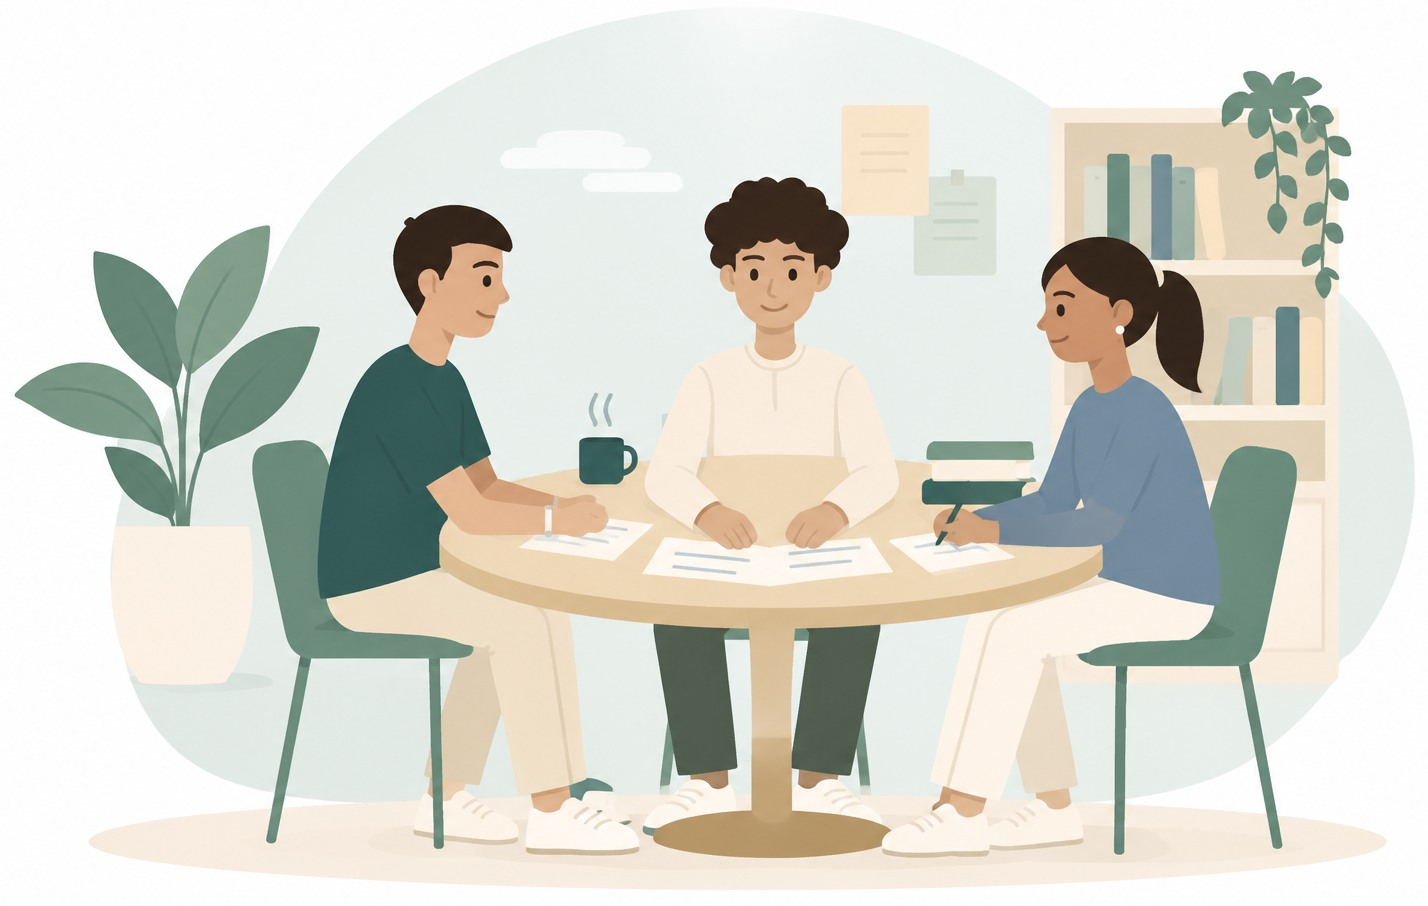
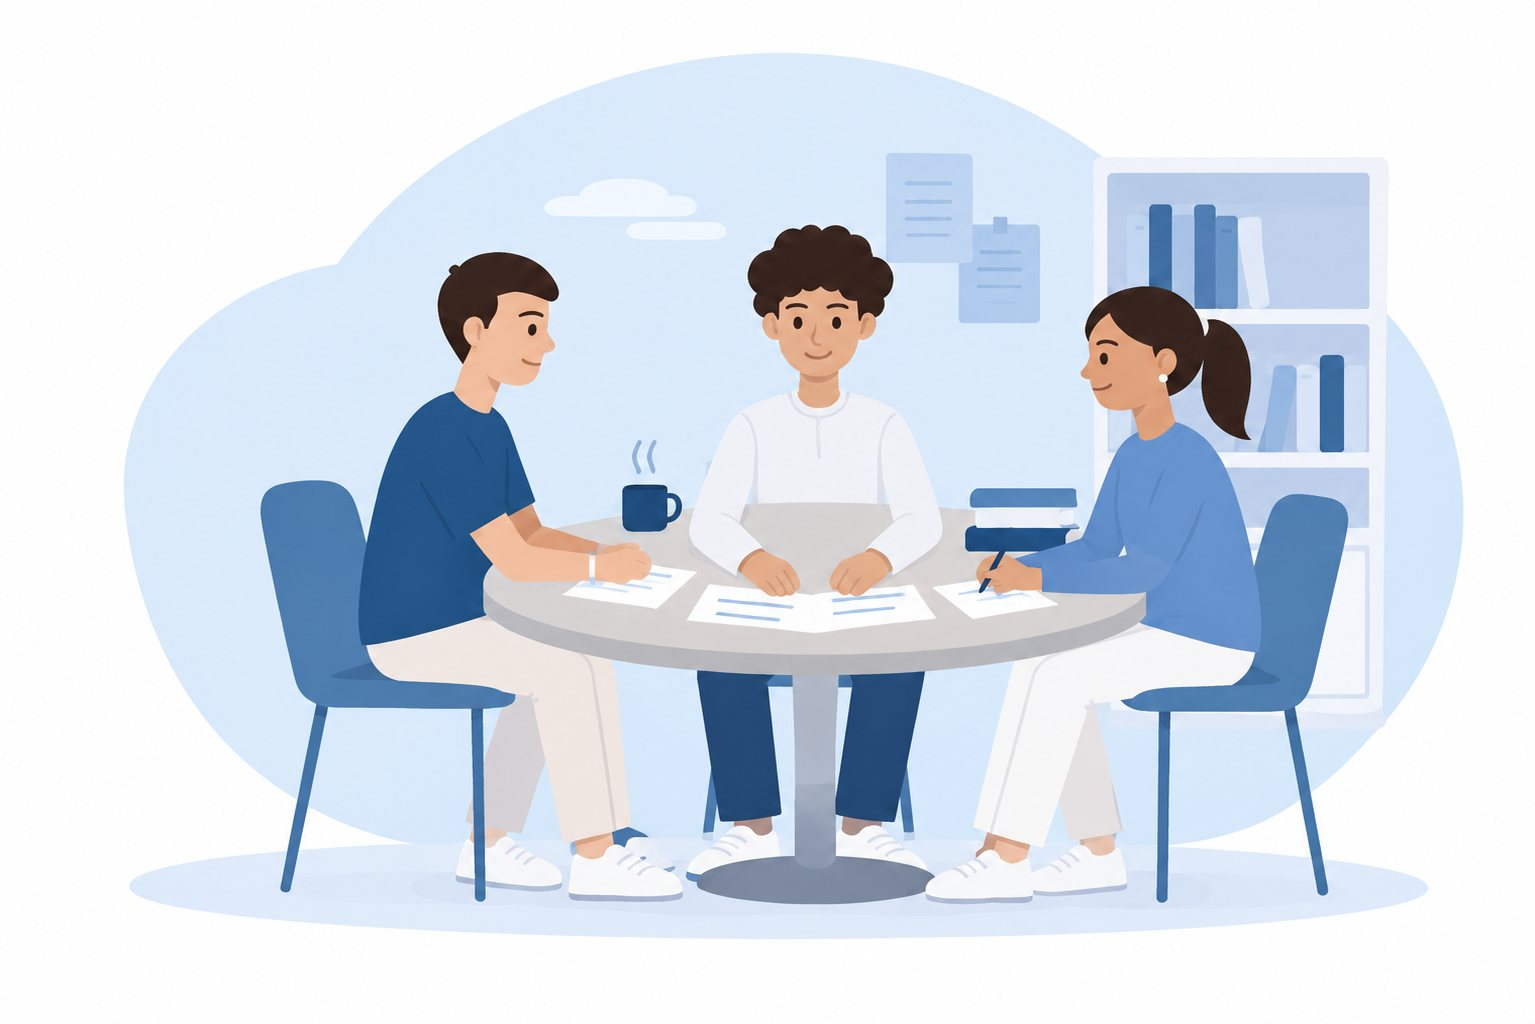
ai eklendi

diff --git a/frontend/src/components/landing/StudyTableIllustration.tsx b/frontend/src/components/landing/StudyTableIllustration.tsx
@@ -7,8 +7,8 @@ export default function StudyTableIllustration({ className = '' }: { className?:
   return (
     <img
       src={studyTableImage}
-      width={1428}
-      height={906}
+      width={1535}
+      height={1024}
       decoding="async"
       fetchPriority="high"
       className={`object-contain mix-blend-multiply ${className}`}
